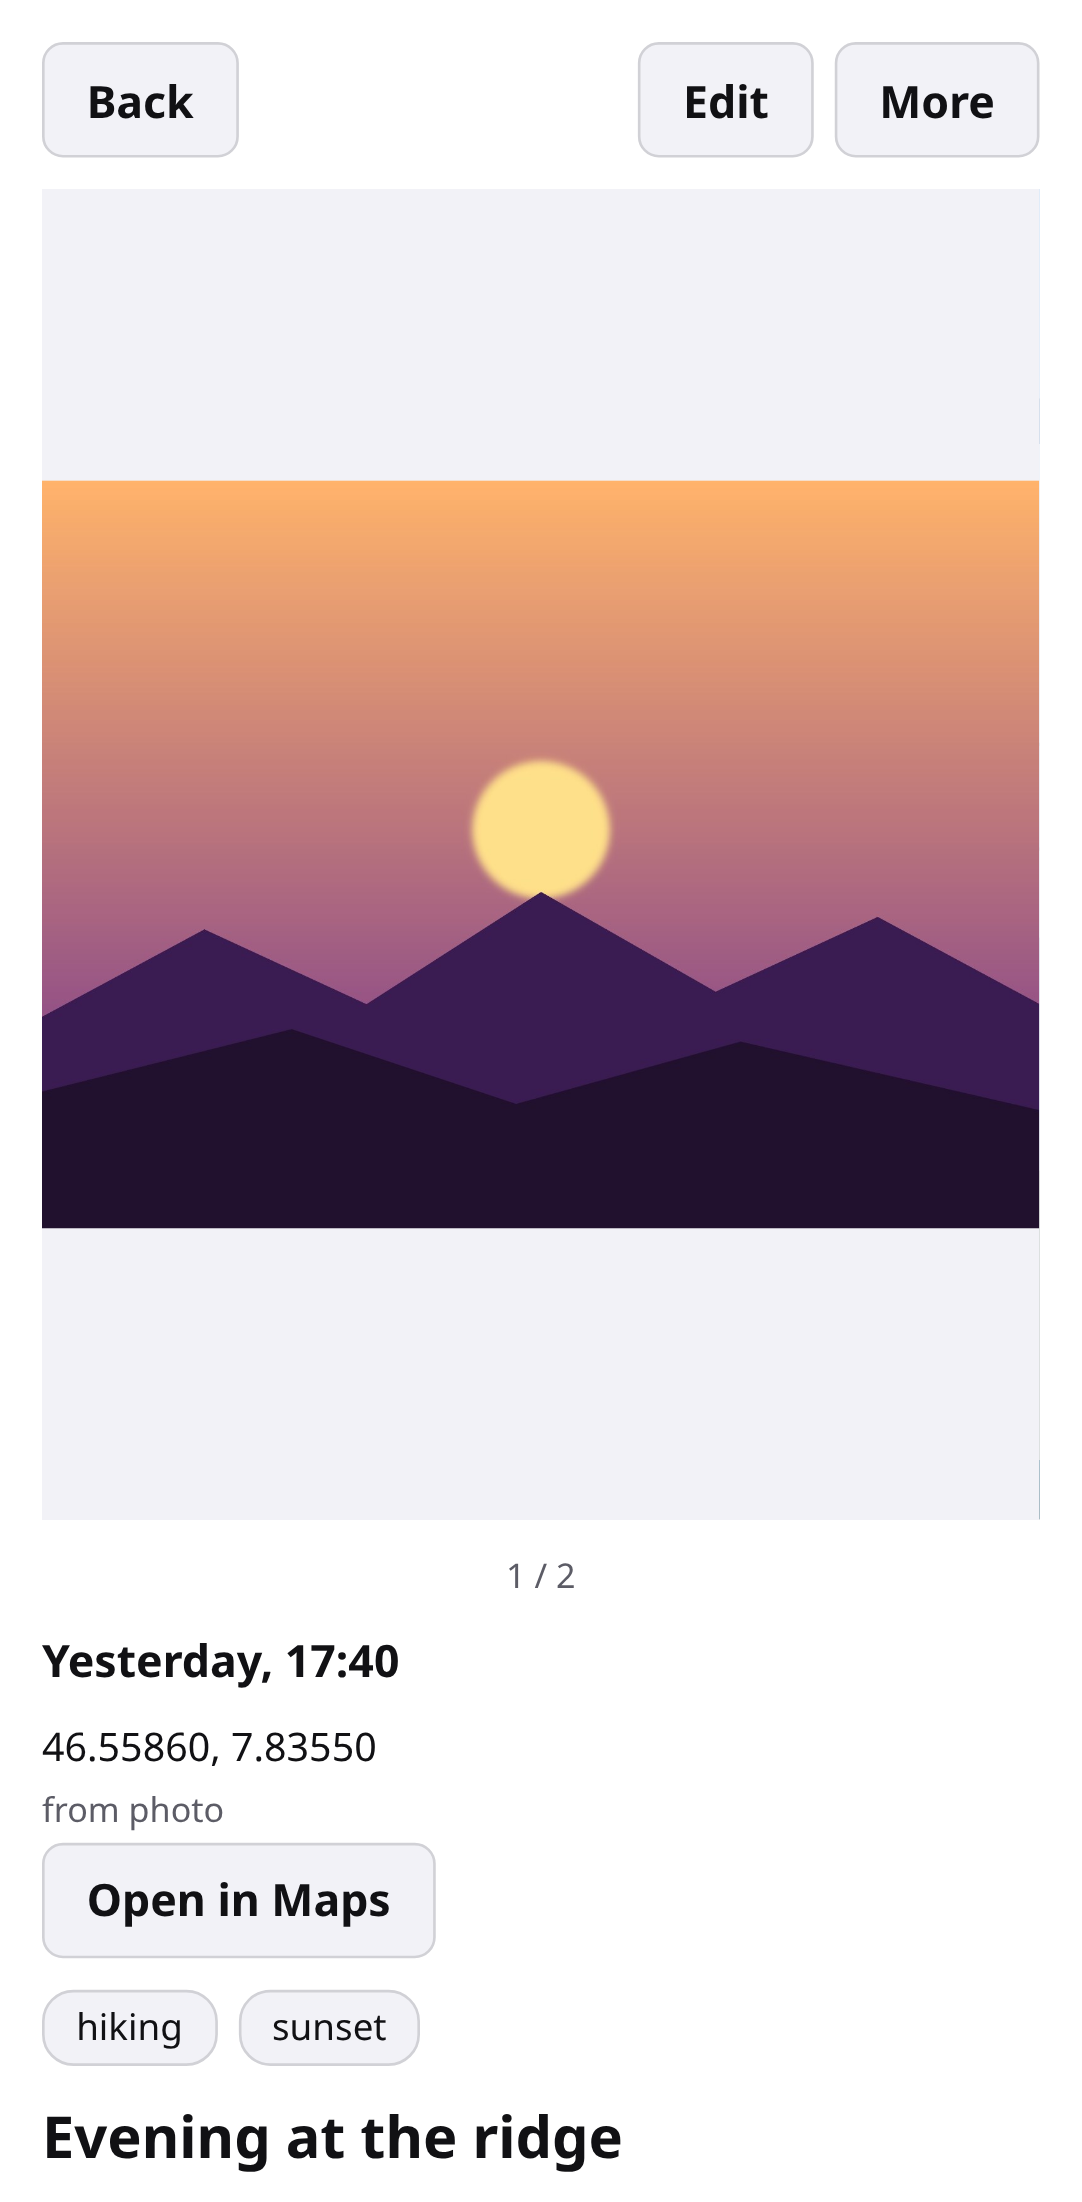
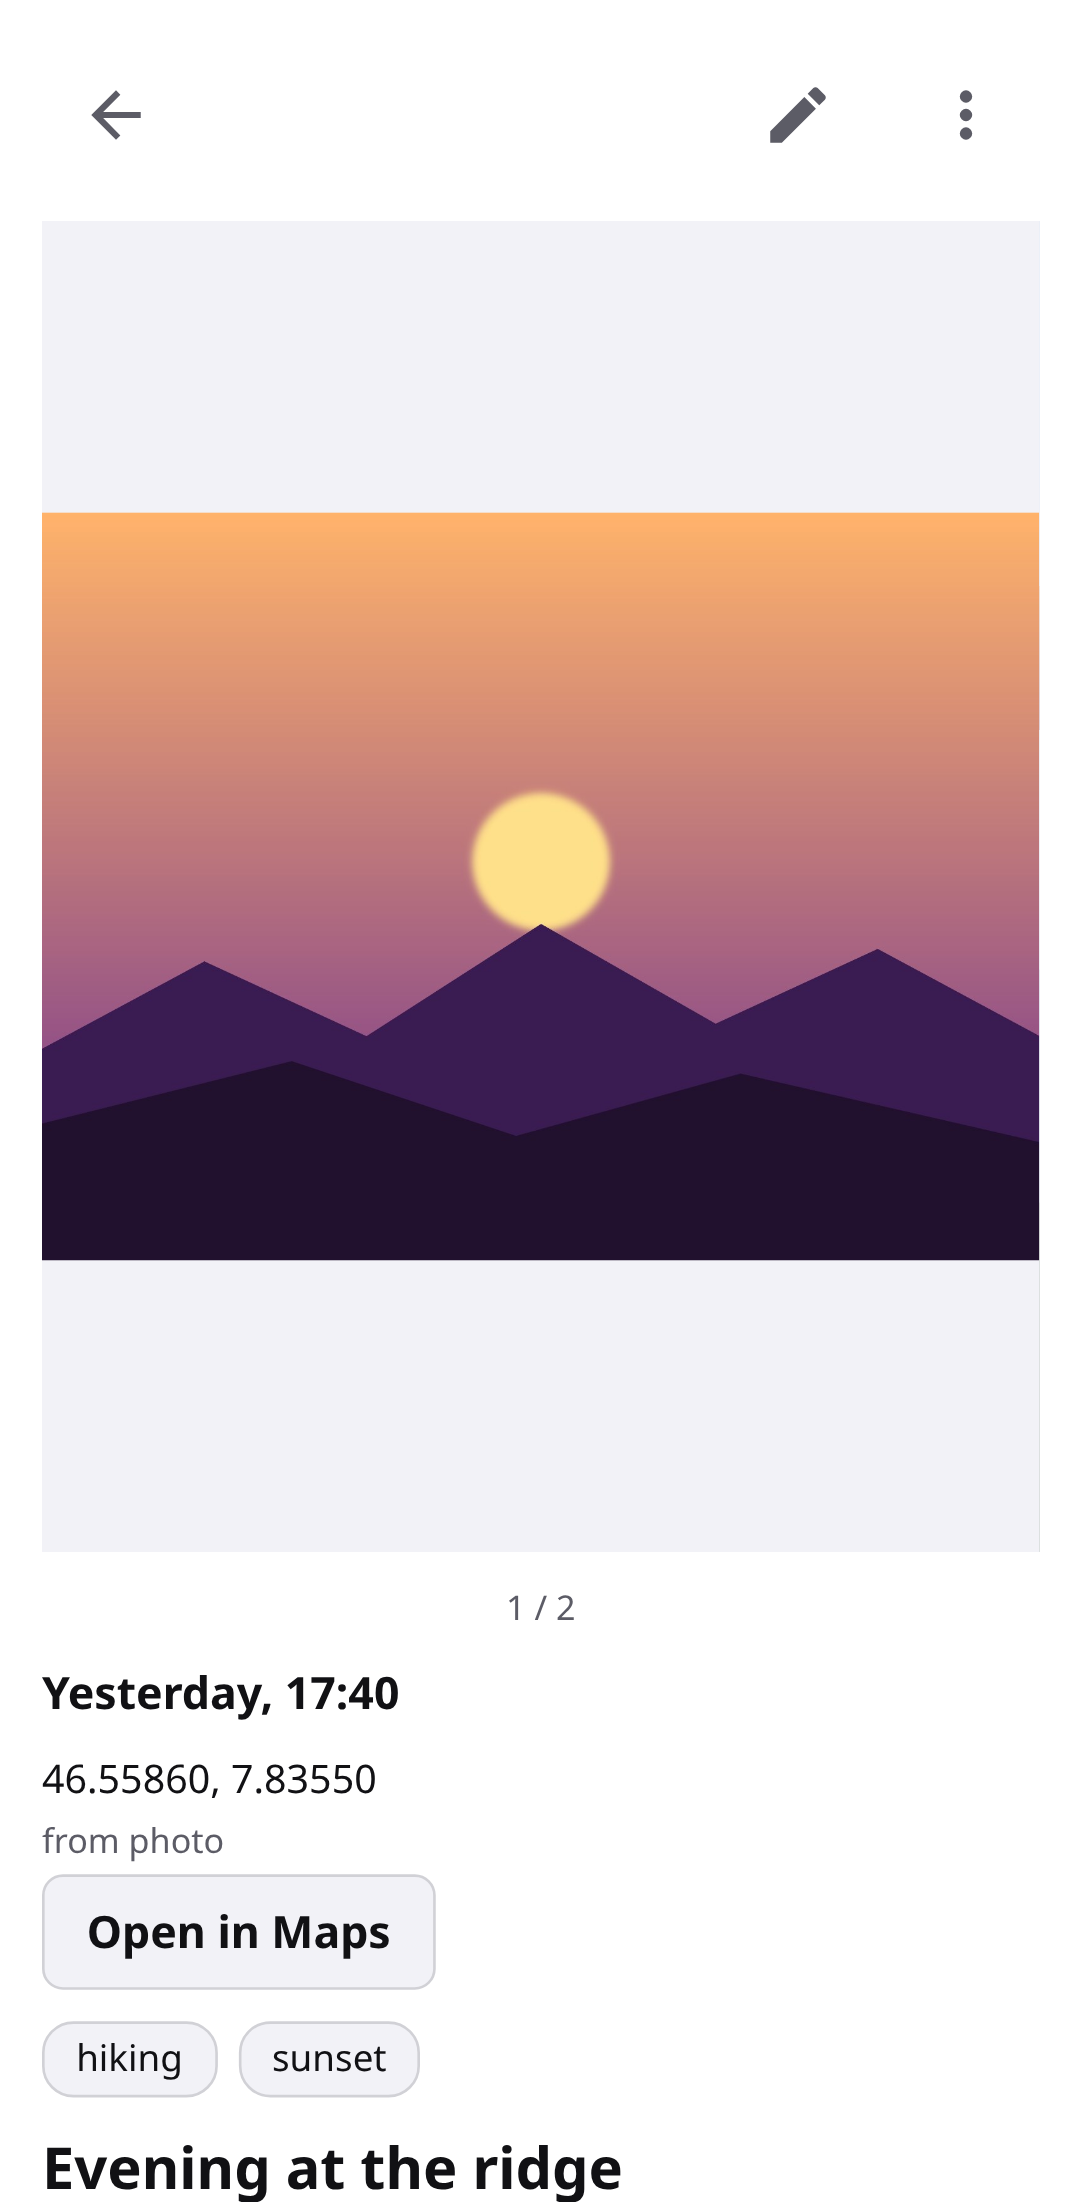
chore: version 0.1.2, screenshots for the Material 3 UI, plain note captions

diff --git a/apps/client/src/features/gallery/tile.tsx b/apps/client/src/features/gallery/tile.tsx
@@ -99,7 +99,7 @@ export function Tile({ entryId, position, size, selecting, selected, display = D
   const list = display.mode === 'list';
   const thumbSize = list ? LIST_THUMB_SIZE : size;
   const time = localTimeOf(entry.takenAtUtc, entry.utcOffsetMinutes);
-  const note = display.hideNotePreviews ? '' : entry.notePreview;
+  const note = display.hideNotePreviews ? '' : entry.notePreview.replace(MARKDOWN_LEAD, '');
   const checkbox = showCheckbox ? (
     <View
       testID={listTestId(GALLERY_IDS.tileCheckbox, position)}
@@ -153,6 +153,7 @@ export function Tile({ entryId, position, size, selecting, selected, display = D
 }
 
 const LIST_THUMB_SIZE = 72;
+const MARKDOWN_LEAD = /^[#>*\-\s]+/;
 const CAPTION_SHADE = 'rgba(0,0,0,0.55)';
 const CAPTION_TEXT = '#FFFFFF';
 

diff --git a/apps/client/app.config.ts b/apps/client/app.config.ts
@@ -3,7 +3,7 @@ import type { ExpoConfig } from 'expo/config';
 const LOCATION_PERMISSION_TEXT =
   'Kodakiko adds your location to new photos only if you turn this on in Settings.';
 
-const APP_VERSION = '0.1.1';
+const APP_VERSION = '0.1.2';
 const VERSION_PART_RANGE = 100;
 
 function versionCodeOf(version: string): number {
